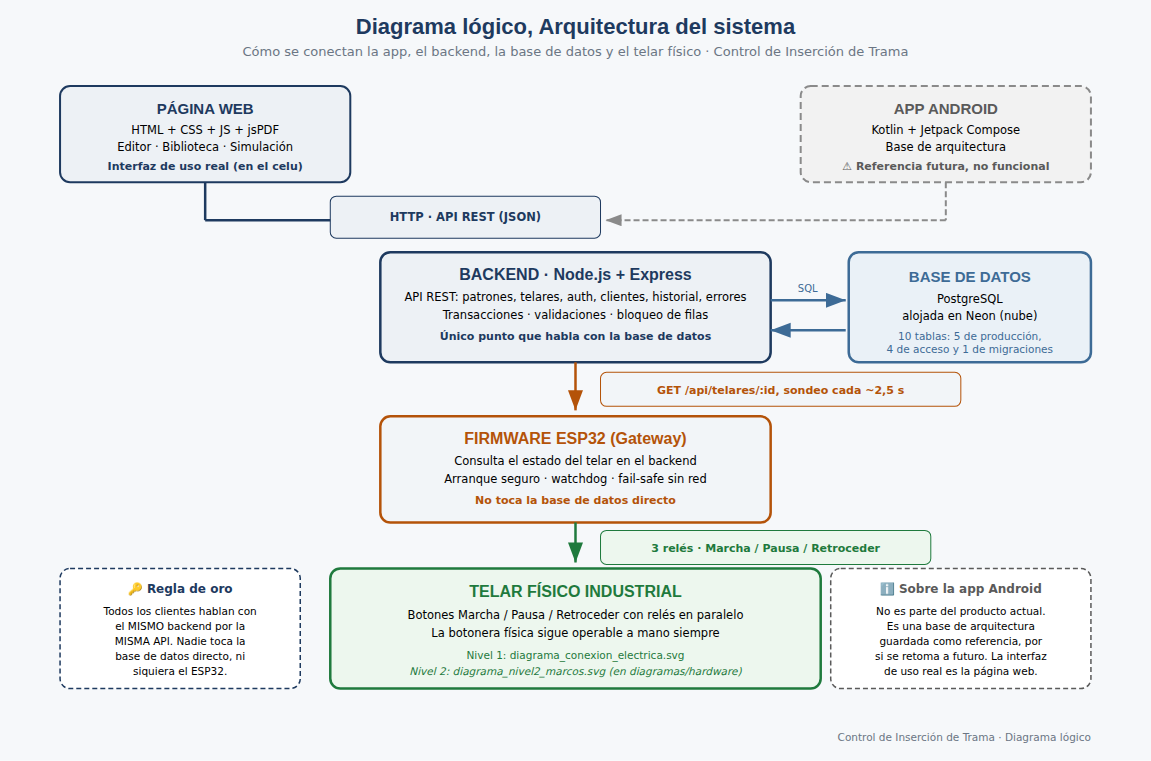
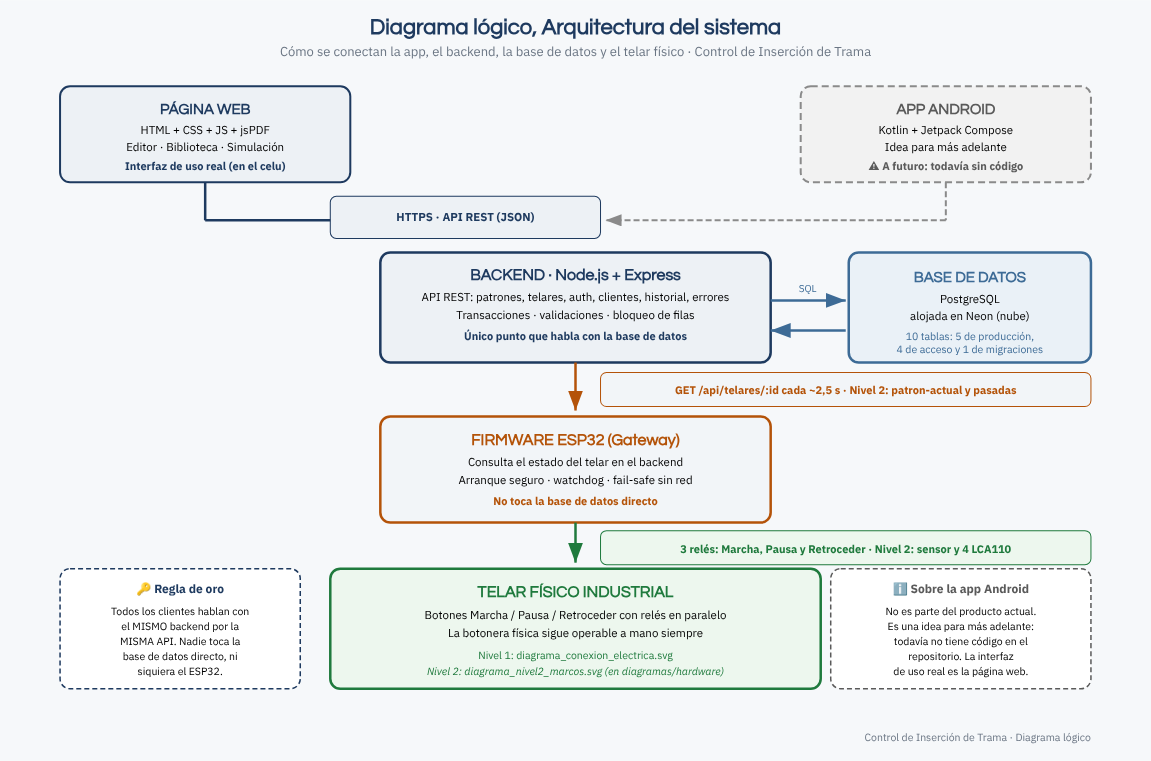
Revisión: diagrama de arquitectura, app Android y pendientes al día
- Diagrama lógico: la app Android queda como idea a futuro (la carpeta de referencia se sacó el 03/11), HTTPS, y el Nivel 2 (patron-actual, pasadas, sensor y 4 LCA110). PNG regenerado.
- Manual de instalación: la app Android, sin base de referencia.
- backend/README: el conteo del Nivel 2 ya no figura como pendiente (validado en la prueba).
- documentacion_proyecto/LEEME: el Recorrido tiene cuatro páginas.

Claude-Session: https://claude.ai/code/session_01QiY8ZZNAM9gwPKiqSkCaaj

diff --git a/backend/README.md b/backend/README.md
@@ -266,11 +266,11 @@ src/
    (`historial_produccion` con posición, vueltas completadas, etc.). La web muestra los
    acumulados de cada dibujo (ficha y PDF), pero todavía no una lista de las producciones (solo
    la vista del cliente muestra las últimas de su tejido).
-3. Validar el conteo del Nivel 2: el firmware reporta las pasadas medidas por el sensor inductivo
-   (`POST /pasadas`, que se guardan en `pasadas_sensor`, aparte de la estimación por reloj) y
-   la web deja de estimar mientras el sensor esté conectado. El hardware quedó instalado y probado
-   el 30/10/2026, y en el período de prueba el conteo quedó validado: coincide con las vueltas de la máquina (una pasada por vuelta del eje, 300 por minuto)
-   (`PUESTA_EN_MARCHA.md`).
+Ya hecho: el conteo del Nivel 2. El firmware reporta las pasadas medidas por el sensor inductivo
+(`POST /pasadas`, que se guardan en `pasadas_sensor`, aparte de la estimación por reloj) y la web
+deja de estimar mientras el sensor esté conectado. El hardware quedó instalado y probado el
+30/10/2026, y en el período de prueba el conteo quedó validado: coincide con las vueltas de la
+máquina (una pasada por vuelta del eje, 300 por minuto) (`PUESTA_EN_MARCHA.md`).
 
 ## Seguridad de la API
 

diff --git a/documentacion_proyecto/LEEME.md b/documentacion_proyecto/LEEME.md
@@ -11,7 +11,7 @@ el repositorio para que el código y la documentación viajen juntos.
 | `Documentación_de_Proyecto.docx` | El documento formal completo, con 70 secciones numeradas, 15 tablas y 15 figuras. |
 | `Bitácora.docx` | Registro cronológico de avances y decisiones. |
 | `Registro de Entrevistas.docx` | Las minutas de las ocho reuniones con el cliente; la última, del 30/10/2026, es la prueba del proyecto completo, con los dos videos. |
-| `Recorrido_del_Codigo_y_Herramientas.docx` | Cómo está armado el código por dentro (la web, el servidor, la base de datos y el firmware), cómo viaja una orden de punta a punta y las herramientas usadas, incluida la inteligencia artificial. Cinco páginas; en Markdown en `docs/analisis/`. |
+| `Recorrido_del_Codigo_y_Herramientas.docx` | Cómo está armado el código por dentro (la web, el servidor, la base de datos y el firmware), cómo viaja una orden de punta a punta y las herramientas usadas, incluida la inteligencia artificial. Cuatro páginas; en Markdown en `docs/analisis/`. |
 
 ## Guías de trabajo
 

diff --git a/docs/guias/Manual_Instalacion_y_Funcionamiento.md b/docs/guias/Manual_Instalacion_y_Funcionamiento.md
@@ -477,7 +477,7 @@ estado vive en la base de datos, no en el dispositivo.
 | Selector visual de telar (para cuando haya más de uno) | ⏳ Pendiente |
 | Firmware ESP32 (un solo programa: Bloque A, y el Nivel 2 con `NIVEL2_INSTALADO`) | ✅ Bloque A instalado y probado en el telar (19/09/2026); Nivel 2 probado en protoboard (10/10/2026), en el telar con el sensor y un canal (17/10/2026) y completo (30/10/2026) |
 | Conexión física al telar real | ✅ Bloque A (Marcha, Pausa, Retroceder y sensado) · ✅ Nivel 2: el sensor de pasada y los cuatro relés de selección, con el gabinete instalado y probados el 30/10/2026 · ✅ Conteo validado: coincide con las vueltas de la máquina |
-| App Android nativa | ⏳ A futuro (hay una base de referencia, no funcional) |
+| App Android nativa | ⏳ A futuro (es una idea; todavía no tiene código) |
 
 ---
 
